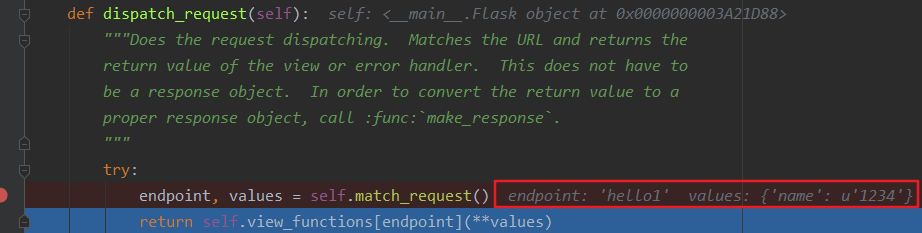
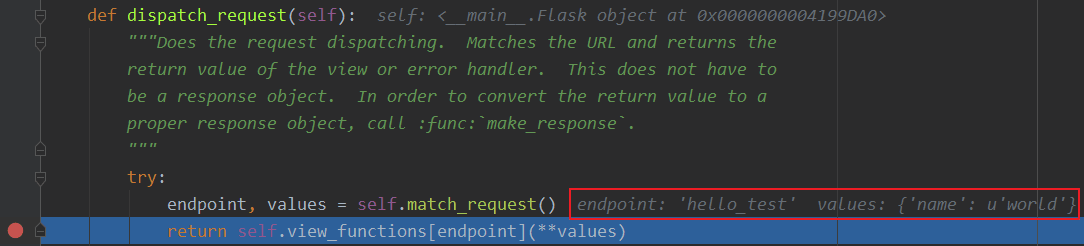
docs: update example code

diff --git a/Read-Code/flask/flask-0.1/flask-0.1-02.rst b/Read-Code/flask/flask-0.1/flask-0.1-02.rst
@@ -318,14 +318,18 @@ dispatch_request() 方法实现了从请求的 URL 找到端点 ， 再从端点
 route() 装饰器传入的参数创建 。 如上文中的描述 ： view_function 是 Flask 类中定义\
 的一个字典 ， 它存储了端点和视图函数的映射关系 。 
 
-而这里先调用 match_request() 方法得到处理的 endpoint 和 values ， 如下示例代码 \
-， 如果我请求的是 http://localhost:5000/hello/1234 ， 则结果为 ： endpoint=\
-'hello' ， values={'name':'1234'} ， 调试信息如下图 ： 
+而这里先调用 match_request() 方法得到处理的 endpoint 和 values ， 如下最简单的示例\
+代码 ， 如果我请求的是 http://localhost:5000/hello/world/test ， 则结果为 ： \  endpoint='hello_test' ， values={'name':'world'} ， 调试信息如下图 ： 
 
 .. code-block:: python
 
+    [直接在flask.py文件中添加代码测试]
+
+    app = Flask(__name__)
+
+
     @app.route('/hello/<name>/test', methods=['POST', 'GET'])
-    def hello1(name):
+    def hello_test(name):
         if name == "Test":
             return 'Test'
         else:
@@ -333,16 +337,25 @@ route() 装饰器传入的参数创建 。 如上文中的描述 ： view_functi
 
 
     @app.route('/hello/<name>', methods=['POST', 'GET'])
-    def hello2(name):
+    def hello(name):
         if name == "Test":
             return 'Test'
         else:
             return 'hello'
 
+
+    @app.route('/')
+    def index():
+        return "This is index page"
+
+
+    if __name__ == '__main__':
+        app.run()
+
 .. image:: img/2-1.png
 
-如果我请求的是 http://localhost:5000/hello/1234/test ， 则结果为 ： endpoint=\
-'hello' ， values={'name':'1234'} ， 调试信息如下图 ：
+如果我请求的是 http://localhost:5000/hello/world ， 则结果为 ： endpoint=\
+'hello' ， values={'name':'world'} ， 调试信息如下图 ：
 
 .. image:: img/2-2.png
 
